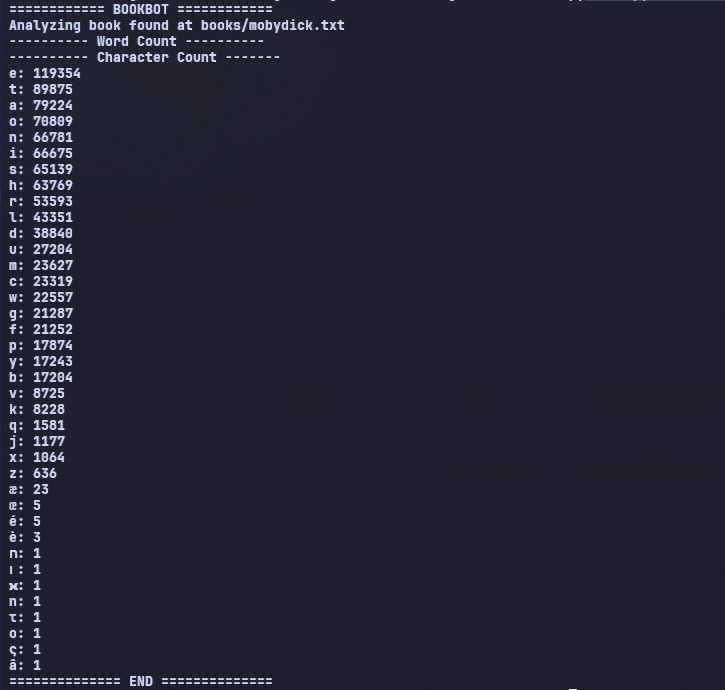
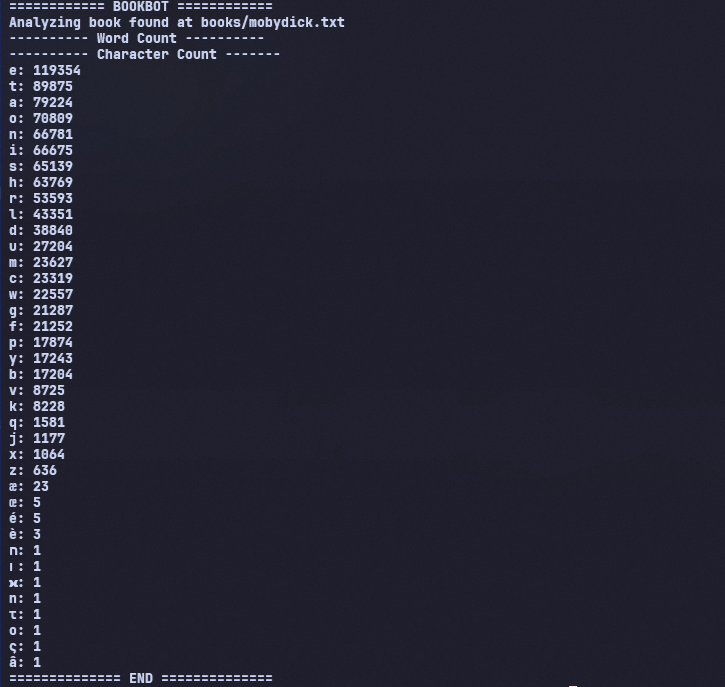
update project 01
- add comments to style.css
- add card styling to skills & interests section in style.css
- crop bookbot project image slightly

Changed region(s): [[0.0, 0.0, 0.4855, 0.7948], [0.0, 0.8253, 0.0303, 0.8559]]

diff --git a/project-01/style.css b/project-01/style.css
@@ -20,6 +20,7 @@ header {
     border-bottom: 2px solid #7c19b9;
 }
 
+/* navigation styling */
 header h1 {
     font-size: 36px;
     font-weight: normal;
@@ -51,6 +52,7 @@ nav a:hover {
     border-color: #611bca;
 }
 
+/* main content styling */
 main {
     max-width: 900px;
     margin: 0 auto;
@@ -76,6 +78,42 @@ section#about p {
     margin-bottom: 16px;
 }
 
+/* skills & interests card styling */
+.card-grid {
+    display: flex;
+    flex-wrap: wrap;
+    gap: 24px;
+}
+
+.card {
+    flex: 1 1 240px;
+    background-color: #f8f2fc;
+    border: 1px solid #653aff;
+    border-left: 3px solid #c06880;
+    border-radius: 4px;
+    padding: 20px 24px;
+    transition: border-left-color 0.2s ease, transform 0.2s ease, box-shadow 0.25s ease;
+}
+
+.card:hover {
+    border-left-color: #611bca;
+    transform: translateY(-4px);
+    box-shadow: 0 8px 16px #6030a82c;
+}
+
+.card h3 {
+    font-size: 18px;
+    color: #611bca;
+    margin-top: 0;
+    margin-bottom: 10px;
+}
+
+.card p {
+    font-size: 15px;
+    margin: 0;
+}
+
+/* footer styling */
 footer {
     padding: 40px;
     border-top: 2px solid #7c19b9;
